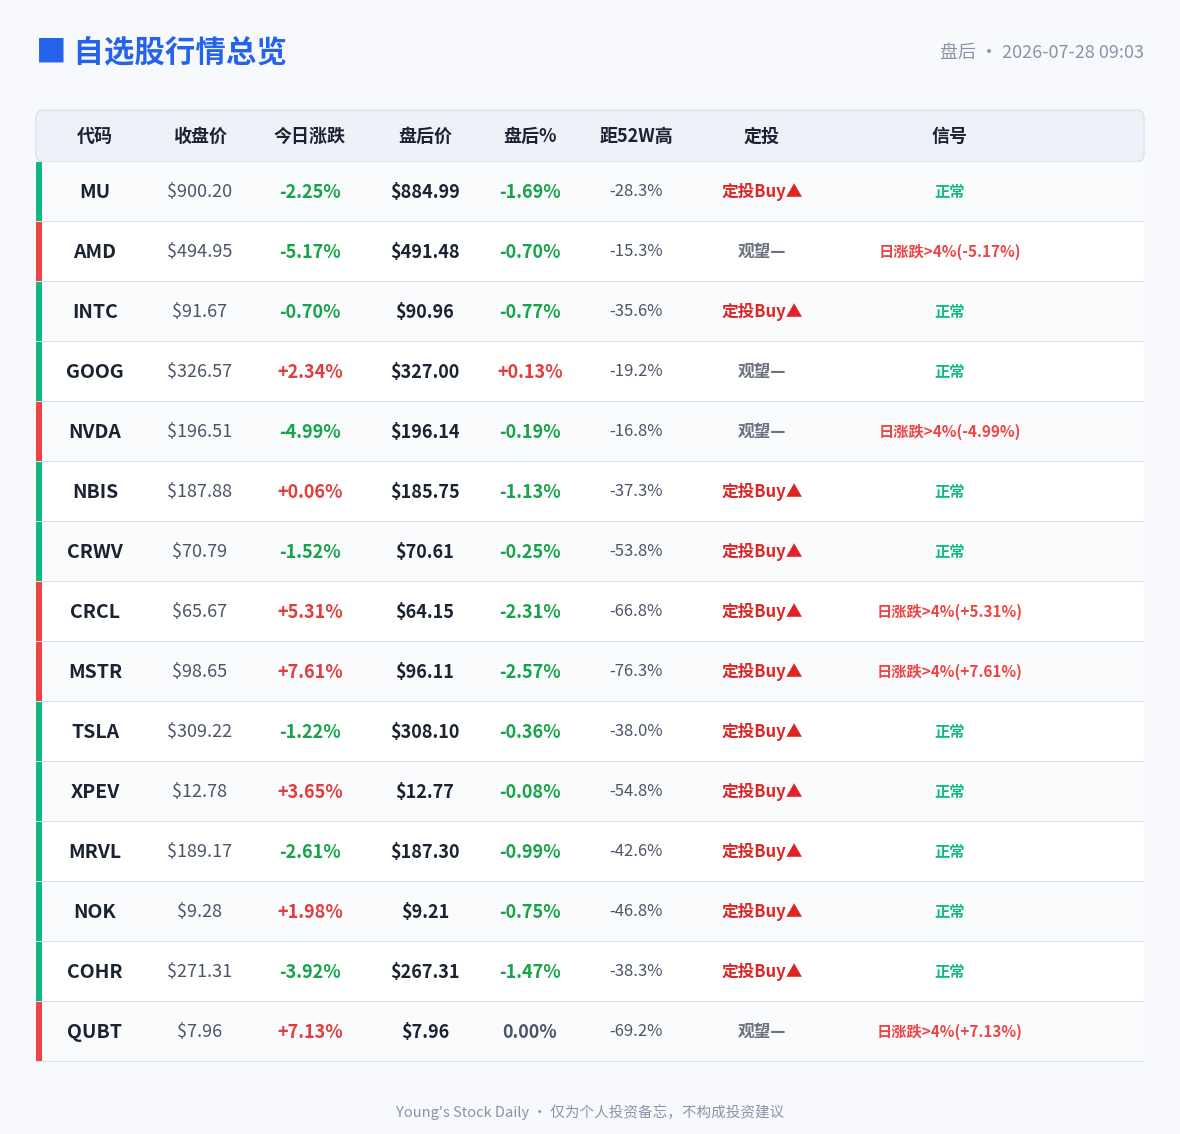
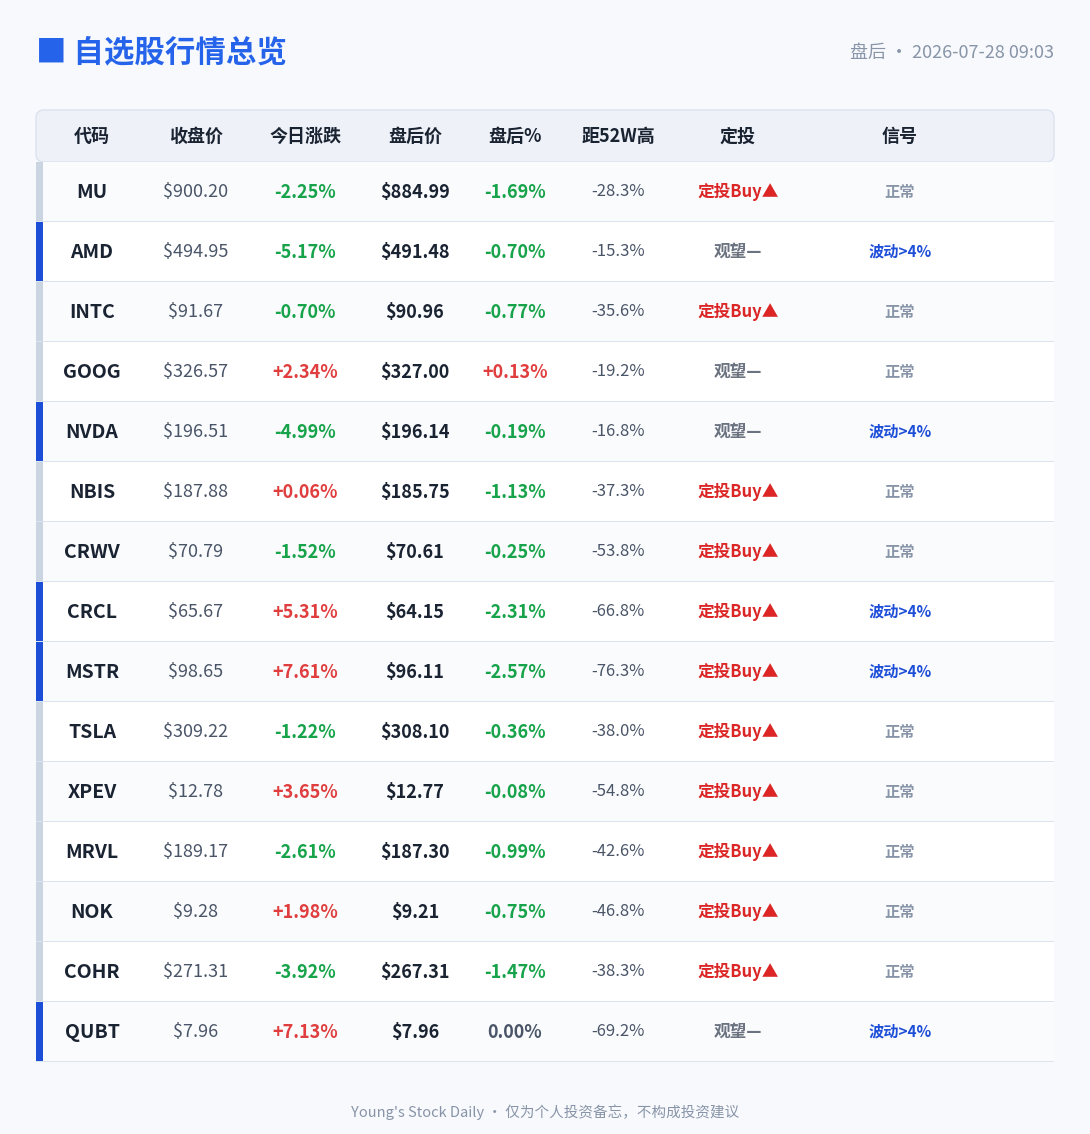
style: 异常等级条改中性色阶(灰/琥珀/蓝)与涨跌红绿解耦；信号列文案精简收窄；重绘0728

diff --git a/skills/stock-and-web3/scripts/render_overview.py b/skills/stock-and-web3/scripts/render_overview.py
@@ -29,6 +29,7 @@ render_overview.py · v4
 import argparse
 import json
 import os
+import re
 import sys
 from pathlib import Path
 
@@ -80,6 +81,10 @@ C = {
     'fire': '#ef4444',
     'ok': '#10b981',
     'header_bg': '#eef2f8',
+    # 左侧"异常等级条"专用中性色阶（刻意避开红/绿，防止与红涨绿跌混淆）
+    'level_none': '#cbd5e1',   # 浅灰：无异常
+    'level_warn': '#f59e0b',   # 琥珀：一般异常（量比/RSI极端/52周新高）
+    'level_high': '#1d4ed8',   # 深蓝：重大异常（大幅波动 >4%）
 }
 
 
@@ -208,7 +213,7 @@ def render(data, out_path):
     ext_label = '盘后' if is_afterhours else ('盘中' if is_realtime else '盘前')
 
     # ====== 布局参数 ======
-    W = 1180
+    W = 1090
     PAD_X = 36
     HEADER_H = 110
     TABLE_HEADER_H = 52
@@ -242,9 +247,9 @@ def render(data, out_path):
     y = HEADER_H
 
     # ===== 表头 =====
-    # 8 列布局：按内容宽度分配，代码列避开左侧色条，末列信号收窄
-    # 表格可用区 x ∈ [36, 1144]，色条占 36~42
-    cols_x = [95, 200, 310, 425, 530, 636, 762, 950]
+    # 8 列布局：按内容宽度分配，代码列避开左侧色条，末列信号已精简文案故可收窄
+    # 表格可用区 x ∈ [36, 1054]，色条占 36~43
+    cols_x = [92, 196, 305, 415, 515, 618, 738, 900]
     cols_name = ['代码', '收盘价', '今日涨跌', f'{ext_label}价', f'{ext_label}%', '距52W高', '定投', '信号']
 
     ax.add_patch(FancyBboxPatch(
@@ -264,12 +269,13 @@ def render(data, out_path):
         ax.add_patch(Rectangle((PAD_X, row_y), W - 2 * PAD_X, ROW_H,
                                facecolor=row_bg, edgecolor='none'))
 
-        # 信号等级色条
+        # 异常等级色条（中性色阶：浅灰=无异常 / 琥珀=一般异常 / 深蓝=重大波动）
         signals = s.get('signals', [])
         has_fire = any('>4%' in sig for sig in signals)
         has_warn = len(signals) > 0
-        level_color = C['fire'] if has_fire else (C['orange'] if has_warn else C['ok'])
-        ax.add_patch(Rectangle((PAD_X, row_y), 6, ROW_H,
+        level_color = (C['level_high'] if has_fire
+                       else (C['level_warn'] if has_warn else C['level_none']))
+        ax.add_patch(Rectangle((PAD_X, row_y), 7, ROW_H,
                                facecolor=level_color, edgecolor='none'))
 
         # 底部分隔线
@@ -325,14 +331,25 @@ def render(data, out_path):
                 fontsize=12, fontweight='bold', color=adv_color,
                 va='center', ha='center')
 
-        # 8 信号
+        # 8 信号（精简文案：去掉括号内百分比，避免与"今日涨跌"列重复占宽）
         if signals:
             label = signals[0]
-            if len(label) > 14:
-                label = label[:13] + '…'
+            label = re.sub(r'\s*\([^)]*\)', '', label)   # 去掉 (±X.XX%)
+            label = (label.replace('日涨跌>4%', '波动>4%')
+                          .replace('接近52w新高', '近52W高')
+                          .replace('接近52W新高', '近52W高')
+                          .replace('创52周新高', '52W新高')
+                          .replace('创52周新低', '52W新低')
+                          .replace('量比>2', '放量'))
+            if len(signals) > 1:
+                label += f'+{len(signals) - 1}'
+            if len(label) > 11:
+                label = label[:10] + '…'
         else:
             label = '正常'
-        label_color = C['fire'] if has_fire else (C['orange'] if has_warn else C['ok'])
+        # 与色条同一套中性色阶：正常=浅灰字 / 一般异常=琥珀 / 重大波动=深蓝
+        label_color = (C['level_high'] if has_fire
+                       else (C['level_warn'] if has_warn else C['muted']))
         ax.text(cols_x[7], cy, label,
                 fontsize=11, fontweight='bold', color=label_color,
                 va='center', ha='center')

diff --git a/skills/stock-and-web3/SKILL.md b/skills/stock-and-web3/SKILL.md
@@ -306,7 +306,9 @@ Strong Sell：贴近52周新高 且 涨幅 > 6%
 1. 逐股详解每只股 `<ul>` 中新增 `🎯 定投信号` 条目（见步骤 2.5 模板）
 2. 新增独立汇总表 `🎯 定投买卖点建议（全量 15 只）`，插在"逐股详解"与"板块关联分析"之间（见步骤 2.5 模板）
 3. **总览图（render_overview.py 生成的 PNG）新增"定投"列**：脚本内置 `advice_key()` + `ADV` 五档表，优先读股票 `advice_key`/`advice_label` 字段，无则按上述规则现算。因 matplotlib 字体不支持 emoji 圆圈，图内用文字符号「Strong Buy▲▲(深红#b91c1c) / 定投Buy▲(红#dc2626) / 观望—(灰#6b7280) / 定投Sell▼(绿#16a34a) / Strong Sell▼▼(深绿#15803d)」。构造 overview_data 时带上 `rsi6` 字段可保证图与 HTML 口径一致
-   - 画布布局（2026-07-28 调优）：W=1180，8 列 x 坐标 `[95, 200, 310, 425, 530, 636, 762, 950]`。代码列从 70→95 避免贴住左侧色条；末列信号从 1010 左移并整体收窄画布，消除右侧过量留白
+   - 画布布局（2026-07-28 调优）：W=1090，8 列 x 坐标 `[92, 196, 305, 415, 515, 618, 738, 900]`。代码列从 70→92 避免贴住左侧色条；信号列文案精简后整体收窄，消除右侧过量留白
+   - 🎨 **双色系语义隔离铁律（2026-07-28 确立，勿回归）**：图中只允许两套互不干扰的色系。①**红/绿专属涨跌与买卖方向**（涨/买=红，跌/卖=绿）②**左侧异常等级条 + 信号列文字统一用中性色阶**：无异常=浅灰 `#cbd5e1`（信号文字用 `#8894a8`）/ 一般异常=琥珀 `#f59e0b` / 重大波动>4%=深蓝 `#1d4ed8`。**严禁**异常等级条或"正常"文字使用红/绿——曾因绿色"正常"被误读为下跌、红色异常条被误读为上涨
+   - ✂ **信号列文案必须精简**：去掉括号内百分比（`日涨跌>4%(-5.17%)` → `波动>4%`，百分比在"今日涨跌"列已有，重复占宽）；缩写映射 `日涨跌>4%→波动>4%`、`接近52W新高→近52W高`、`量比>2→放量`；多信号时用 `+N` 表示剩余条数；超 11 字符截断
 
 **微信简报补充**：第二条 notify 的"📈 自选股行情"区块新增一行 `・定投信号：` 汇总当日出现的买/卖信号（如 `Strong Buy 1 只(MU) / Buy 3 只(XPEV/CRCL/NOK) / Sell 1 只(INTC) / 其余观望`），无买卖信号时写"全部观望"。
 
